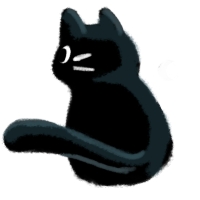
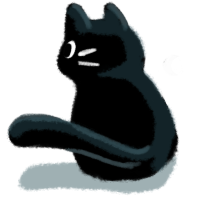
Fixed cat

Changed region(s): [[0.0, 0.0, 0.9, 0.99]]

diff --git a/javascript.js b/javascript.js
@@ -43,7 +43,7 @@ function addCat() {
         var catImage = document.createElement("div");
         catImage.setAttribute('id', "sleepingCat");
         console.log(num);
-        catImage.style.background = "url(\"images/catSleeping3.png\")";
+        catImage.style.backgroundImage = "url(images/catSleep" + num + ".png)";
         document.getElementById("train").appendChild(catImage);
         isCat = true;
     } else {

diff --git a/styles.css b/styles.css
@@ -30,7 +30,7 @@ a:visited {
     z-index: 1;
 }
 #overlay {
-    background-color: rgba(25, 3, 194, 0.5);
+    background-color: rgba(84, 27, 208, 0.3);
     top: 0;
     left: 0;
     max-width: 100%;
